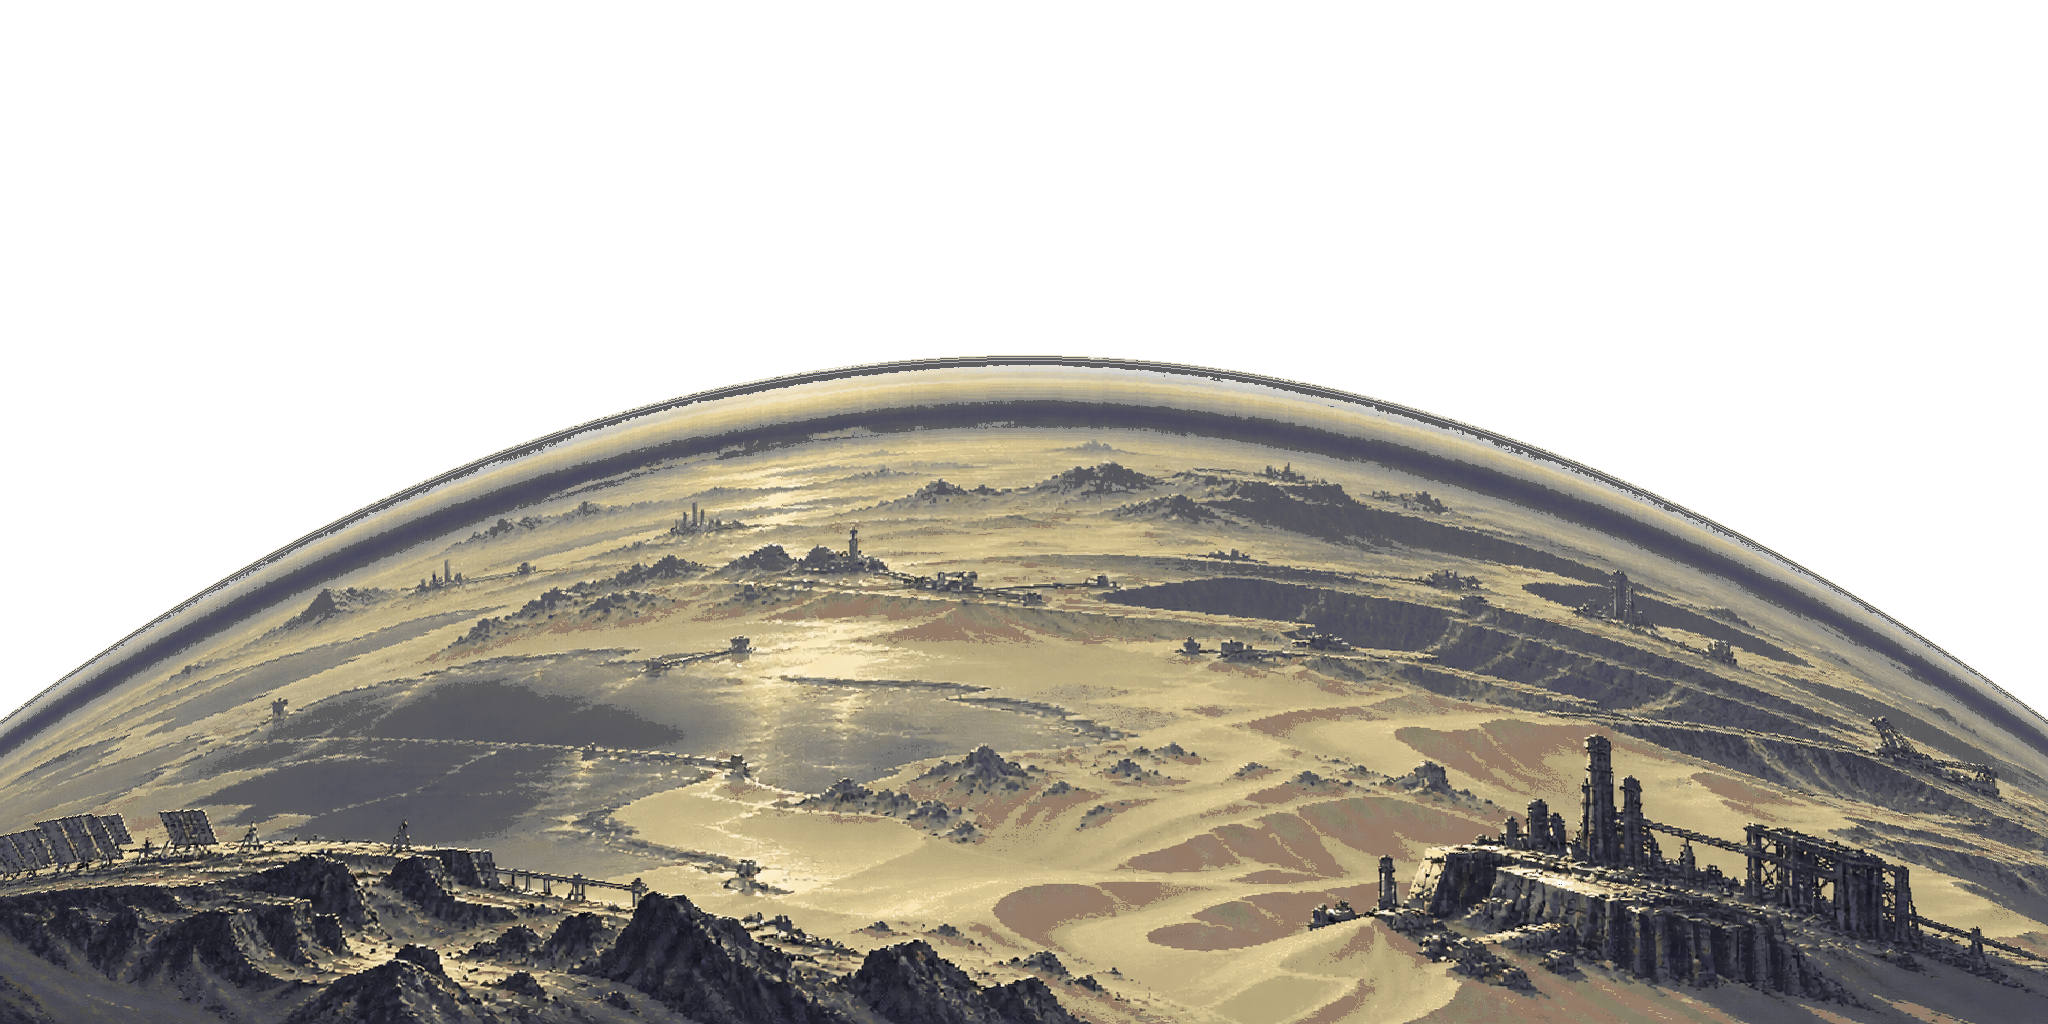
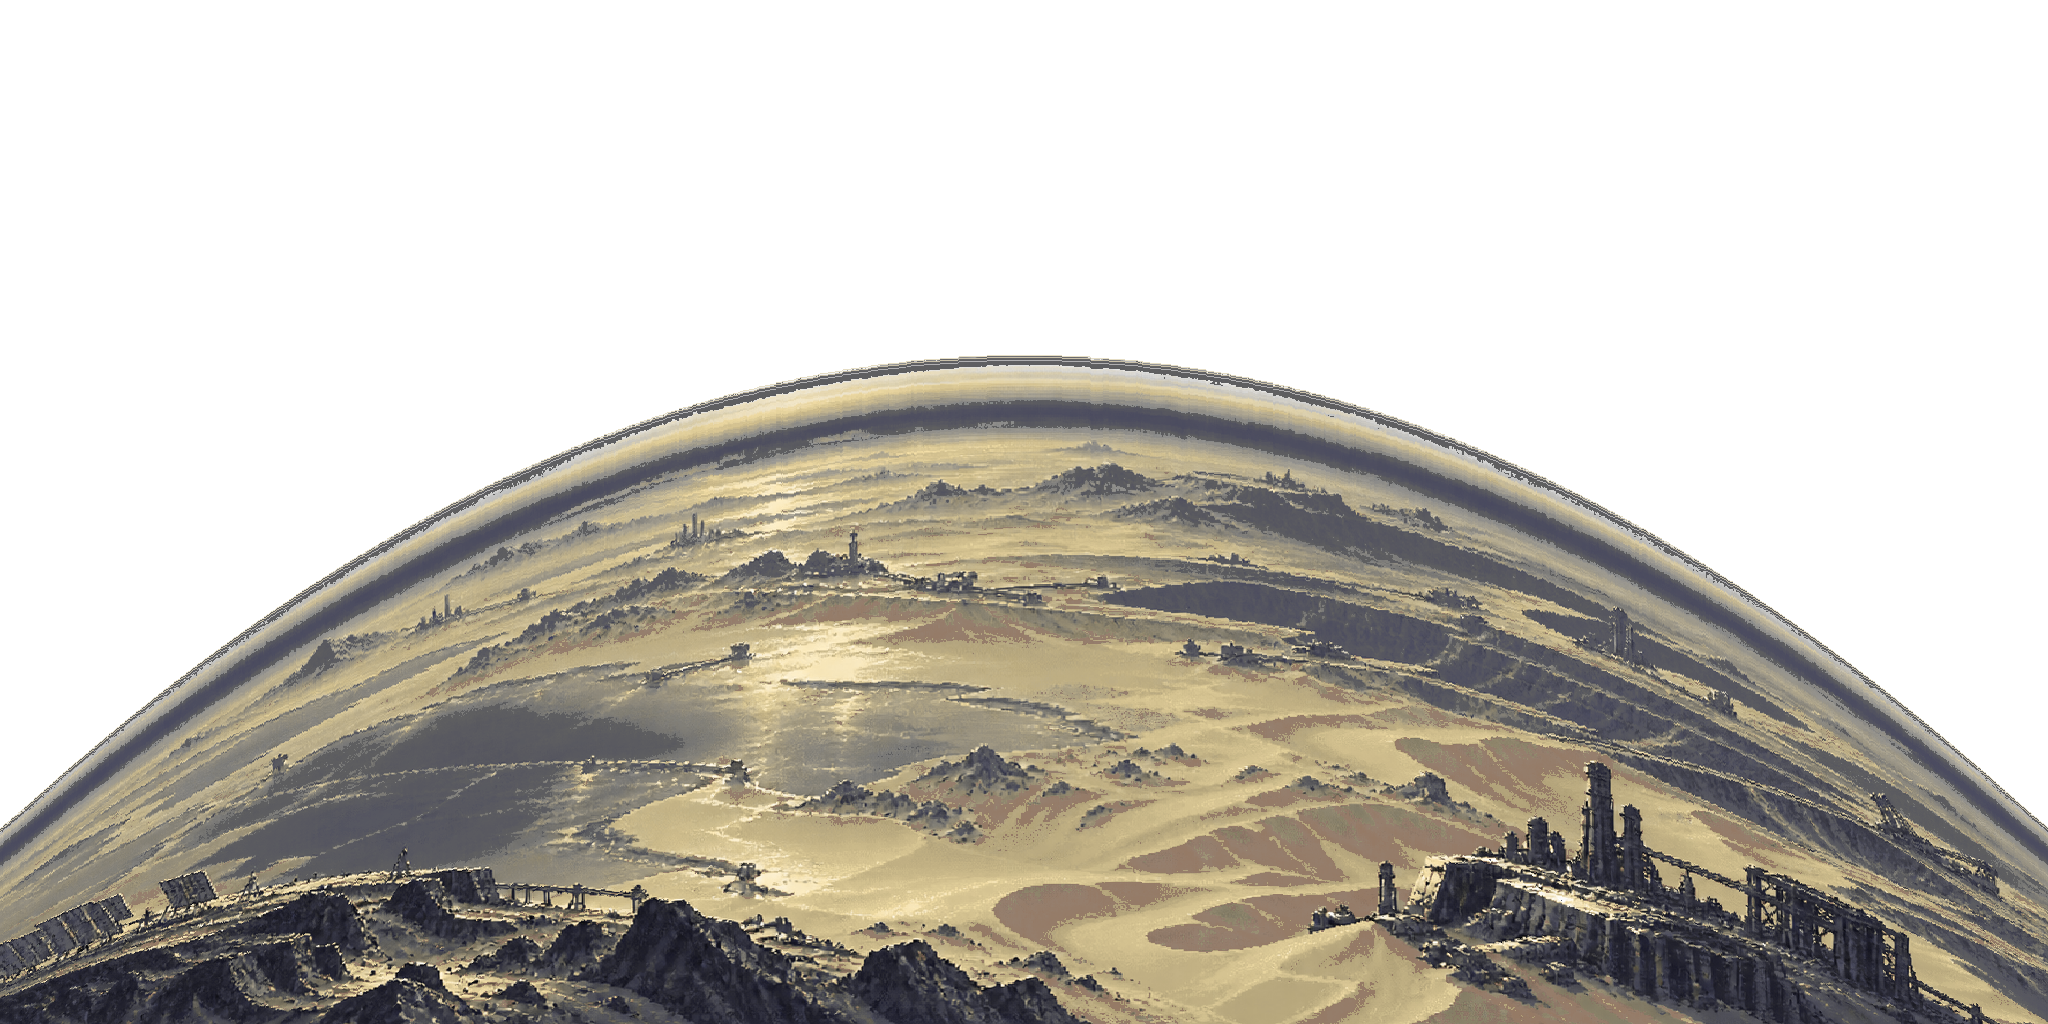
art: Desert planet limb rounder (horizon drop x1.30, nearest-neighbour warp), originals kept, before/after

Changed region(s): [[0.0, 0.3438, 0.4688, 1.0], [0.5312, 0.3438, 1.0, 1.0]]

diff --git a/Pause/Assets/Art/Worlds/Desert/descent~/src~/limb_round.py b/Pause/Assets/Art/Worlds/Desert/descent~/src~/limb_round.py
@@ -1,0 +1,24 @@
+#!/usr/bin/env python3
+"""Deterministic roundness fix for desert_planet_limb.png (nearest-neighbour column warp, no blending).
+Horizon drop (apex 355 -> side edges) is scaled by LAM so the arc is a tighter circle; the rim bands move rigidly
+with the arc (plateau P px), the ground below follows with a linear fade to no shift at depth D.
+usage: limb_round.py original/desert_planet_limb.png desert_planet_limb.png [LAM]"""
+import sys, numpy as np
+from PIL import Image
+src, dst = sys.argv[1], sys.argv[2]
+LAM = float(sys.argv[3]) if len(sys.argv) > 3 else 1.30
+P, D, APEX = 130.0, 720.0, 355
+a = np.asarray(Image.open(src).convert("RGBA")); H, W = a.shape[:2]
+h_old = np.array([np.nonzero(a[:, x, 3] >= 128)[0][0] for x in range(W)], float)
+pad=np.pad(h_old,31,mode="edge"); hs=np.median(np.lib.stride_tricks.sliding_window_view(pad,63),axis=1)
+hs = np.convolve(np.pad(hs, 32, mode="edge"), np.ones(65) / 65, "valid")
+delta = (LAM - 1.0) * (hs - APEX)            # extra drop at each column (0 at apex)
+h_new = h_old + delta
+out = np.zeros_like(a)
+ys = np.arange(H)[:, None].astype(float)
+d = ys - h_new[None, :]                       # depth below the new arc
+w = np.where(d <= P, 1.0, np.clip(1.0 - (d - P) / (D - P), 0, 1))
+ysrc = np.rint(ys - delta[None, :] * w).astype(int)
+ysrc = np.clip(ysrc, 0, H - 1)
+out = a[ysrc, np.arange(W)[None, :]]
+Image.fromarray(out).save(dst)
